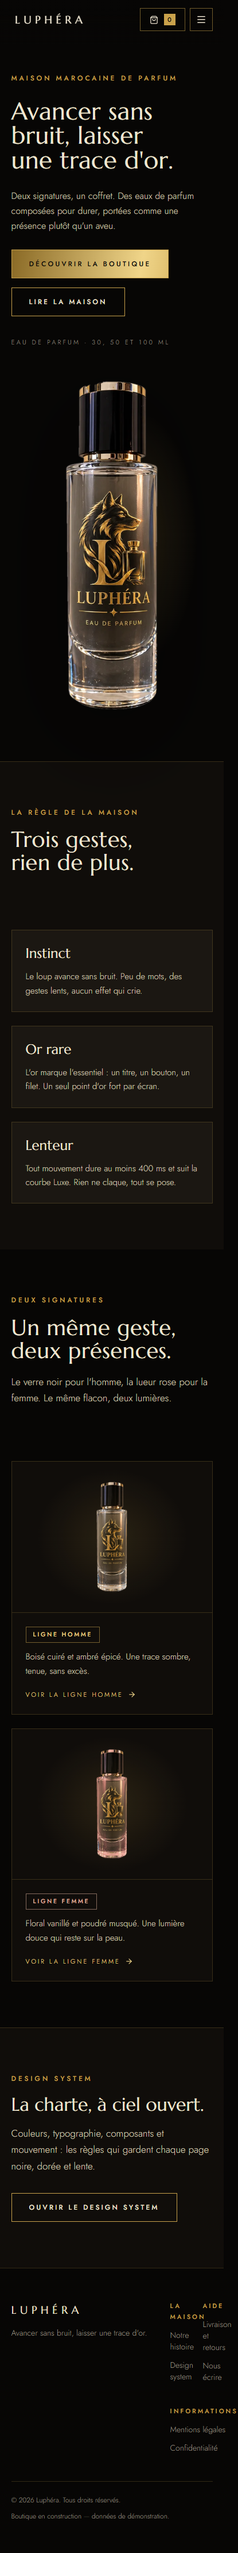
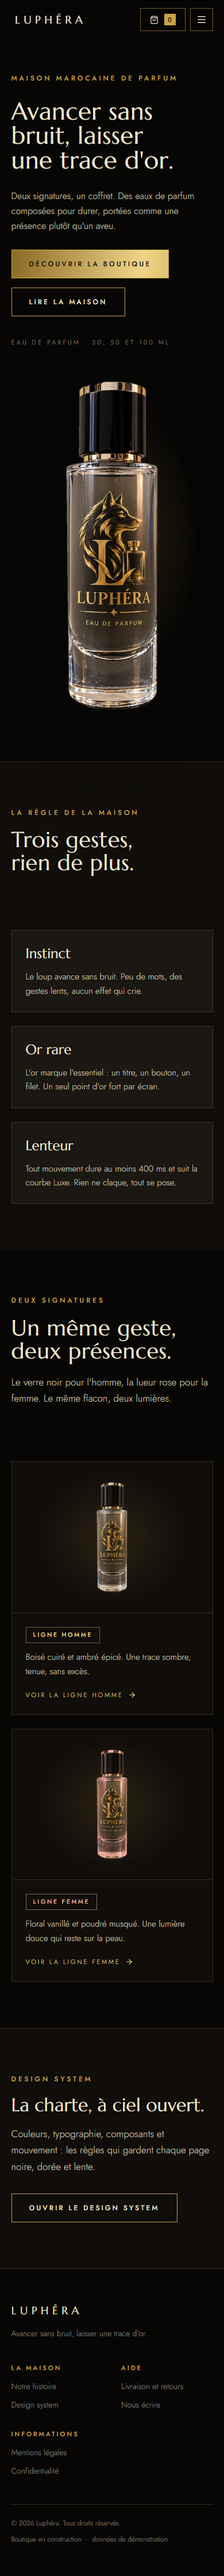
fix(web): remove mobile overflow and add route smoke check

diff --git a/apps/web/src/components/layout/SiteFooter.tsx b/apps/web/src/components/layout/SiteFooter.tsx
@@ -32,13 +32,13 @@ export function SiteFooter() {
   return (
     <footer aria-label={t('footer.label')} className="border-t border-ligne bg-nuit pb-[calc(56px+env(safe-area-inset-bottom,0px))] pt-14">
       <div className="gutter grid gap-12">
-        <div className="flex flex-wrap items-start justify-between gap-10">
+        <div className="grid gap-10 lg:grid-cols-[minmax(0,20rem)_minmax(0,1fr)] lg:items-start lg:gap-12">
           <div className="grid max-w-sm gap-3">
             <p className="font-display text-[19px] tracking-[.34em] text-ivoire">LUPHÉRA</p>
             <p className="text-sm leading-relaxed text-brume">{t('brand.tagline')}</p>
           </div>
 
-          <div className="grid flex-1 grid-cols-2 gap-10 sm:grid-cols-3 lg:max-w-xl">
+          <div className="grid min-w-0 grid-cols-2 gap-8 sm:grid-cols-3">
             {columns.map((column) => (
               <div key={column.titleKey} className="grid content-start gap-3">
                 <p className="text-[11px] font-medium uppercase tracking-[.28em] text-or">

diff --git a/apps/web/src/pages/DesignSystemPage.tsx b/apps/web/src/pages/DesignSystemPage.tsx
@@ -236,7 +236,10 @@ export function DesignSystemPage() {
         >
           <div className="grid gap-2.5">
             {spacing.map((value) => (
-              <div key={value} className="grid grid-cols-[70px_1fr] items-center gap-4 text-[13px] text-brume">
+              <div
+                key={value}
+                className="grid grid-cols-[70px_minmax(0,1fr)] items-center gap-4 text-[13px] text-brume"
+              >
                 <span>{value} px</span>
                 <span
                   aria-hidden="true"

diff --git a/README.md b/README.md
@@ -104,7 +104,7 @@ Règles structurantes :
 | `make build-web` | Build de production du storefront |
 | `make screens` | Régénère `docs/screens/` (serveur de preview sur 4173) |
 
-Côté web : `npm run dev`, `npm run build`, `npm run lint`, `npm run typecheck`, `npm run test`, `npm run test:run`, `npm run format`.
+Côté web : `npm run dev`, `npm run build`, `npm run lint`, `npm run typecheck`, `npm run test`, `npm run test:run`, `npm run test:smoke` (serveur de preview requis), `npm run format`.
 Côté API : `php artisan test`, `vendor/bin/pint`, `vendor/bin/phpstan analyse`.
 
 ## Comptes de test
@@ -139,6 +139,7 @@ Le téléphone est l'identifiant de connexion. Les autres rôles (`manager`, `su
 | Web lint | `npm run lint` | vert |
 | Web types | `npm run typecheck` | vert |
 | Web build | `npm run build` | vert |
+| Web smoke (routes, console, débordement) | `npm run test:smoke` | 10/10 vert |
 
 La CI GitHub Actions (`.github/workflows/ci.yml`) rejoue ces étapes sur PHP 8.3 et Node 24, valide `docker compose config` et vérifie les préfixes de commit conventionnels sur les pull requests.
 

diff --git a/docs/PHASE-0-CHECKLIST.md b/docs/PHASE-0-CHECKLIST.md
@@ -31,6 +31,7 @@ Critère du brief : `make up` démarre tout, la CI est verte, `/design-system` a
 | Rendu desktop 1440 | capture Playwright | conforme à la référence |
 | Rendu mobile 390 | capture Playwright | conforme à la référence |
 | Mouvement réduit | captures avec `reducedMotion: 'reduce'` | contenu visible, sans animation |
+| Smoke routes desktop et mobile | `npm run test:smoke` | 10/10, aucune erreur console, aucun débordement |
 
 ## Non vérifié localement
 
